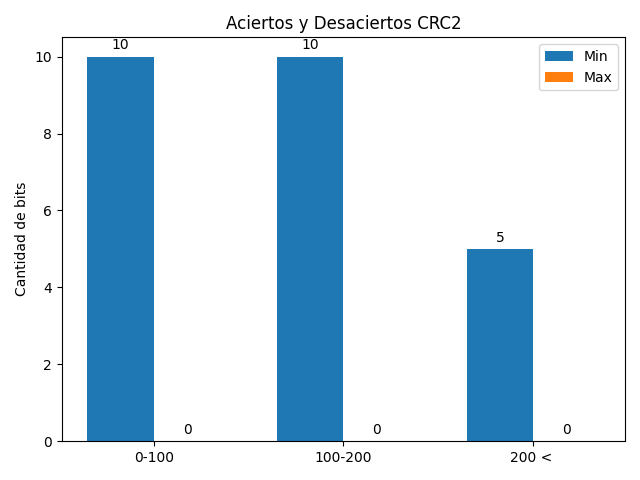
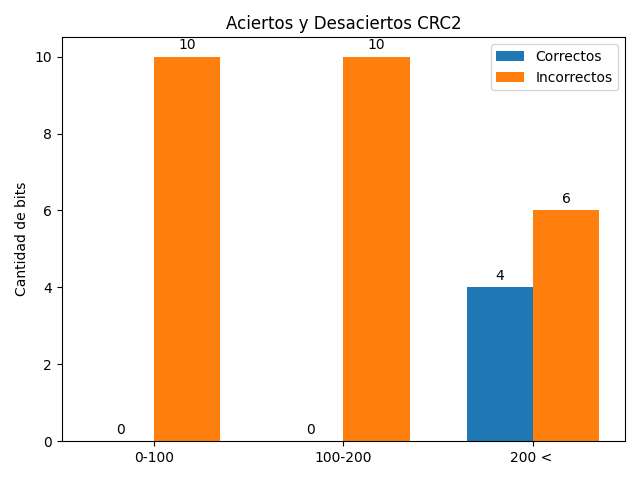
crc2 stat correcta

diff --git a/stats.py b/stats.py
@@ -2,7 +2,6 @@ import matplotlib
 import matplotlib.pyplot as plt
 import numpy as np
 
-results = [ True for i in range(11) ] + [ False for i in range(19) ]
 
 # stats para CRC32
 test_crc = open('results_crc.txt', 'r')
@@ -21,7 +20,7 @@ wrong = 0
 avg_time = 0
 
 for i in range(len(crc_times)):
-    if crc_vals[i] != str(results[i]):
+    if crc_vals[i] != 'False':
         wrong += 1
     avg_time += crc_times[i]
 
@@ -29,6 +28,9 @@ print('------------------- STATS CRC32 -------------------')
 print('Min time:', min(crc_times))
 print('Max time:', max(crc_times))
 print('Avg time:', str(avg_time/30))
+print('Incorrectly detected:', str(wrong))
+print('Correctly detected:', str(30-wrong))
+print('Accuracy:', str(((30-wrong)/30)*100) + '%')
 print('---------------------------------------------------')
 
 #stats para Hamming
@@ -57,6 +59,9 @@ print('------------------ STATS HAMMING ------------------')
 print('Min time:', min(ham_times))
 print('Max time:', max(ham_times))
 print('Avg time:', str(avg_time/22))
+print('Incorrectly corrected:', str(wrong))
+print('Correctly corrected:', str(22-wrong))
+print('Accuracy:', str(((22-wrong)/22)*100) + '%')
 print('---------------------------------------------------') 
     
 test_ham.close()
@@ -90,5 +95,54 @@ def times():
     fig.tight_layout()
     plt.show()
 
+def crc2Graph():
+    #Definimos una lista con paises como string
+    etiquetas = ['0-100', '100-200', '200 < ']
+    #Definimos una lista con ventas como entero
+    wrong = 0
+    for i in range(10):
+        if crc_vals[i] != 'False':
+            wrong += 1
+
+    wrong1 = 0
+    for i in range(11,20):
+        if crc_vals[i] != 'False':
+            wrong1 += 1
+    
+    wrong2 = 0
+    for i in range(21,30):
+        if crc_vals[i] != 'False':
+            wrong2 += 1
+
+   
+    res1 = [wrong, wrong1, wrong2]
+    res2 = [int(10-wrong), int(10-wrong1), int(10-wrong2)]
+
+    x = np.arange(len(etiquetas))
+    width = 0.35
+    fig, ax = plt.subplots()
+    rects1 = ax.bar(x - width/2, res1, width, label='Correctos')
+    rects2 = ax.bar(x + width/2, res2, width, label='Incorrectos')
+    ax.set_ylabel('Cantidad de bits')
+    ax.set_title('Aciertos y Desaciertos CRC2')
+    ax.set_xticks(x)
+    ax.set_xticklabels(etiquetas)
+    ax.legend()
+
+    def autolabel(rects):
+        for rect in rects:
+            height = rect.get_height()
+            ax.annotate('{}'.format(height),
+                        xy=(rect.get_x() + rect.get_width() / 2, height),
+                        xytext=(0, 3),  # 3 points vertical offset
+                        textcoords="offset points",
+                        ha='center', va='bottom')
+    autolabel(rects1)
+    autolabel(rects2)
+    fig.tight_layout()
+    plt.savefig('doble_barra.png')
+    #Mostramos la grafica con el metodo show()
+    plt.show()
 
 times()
+crc2Graph()
